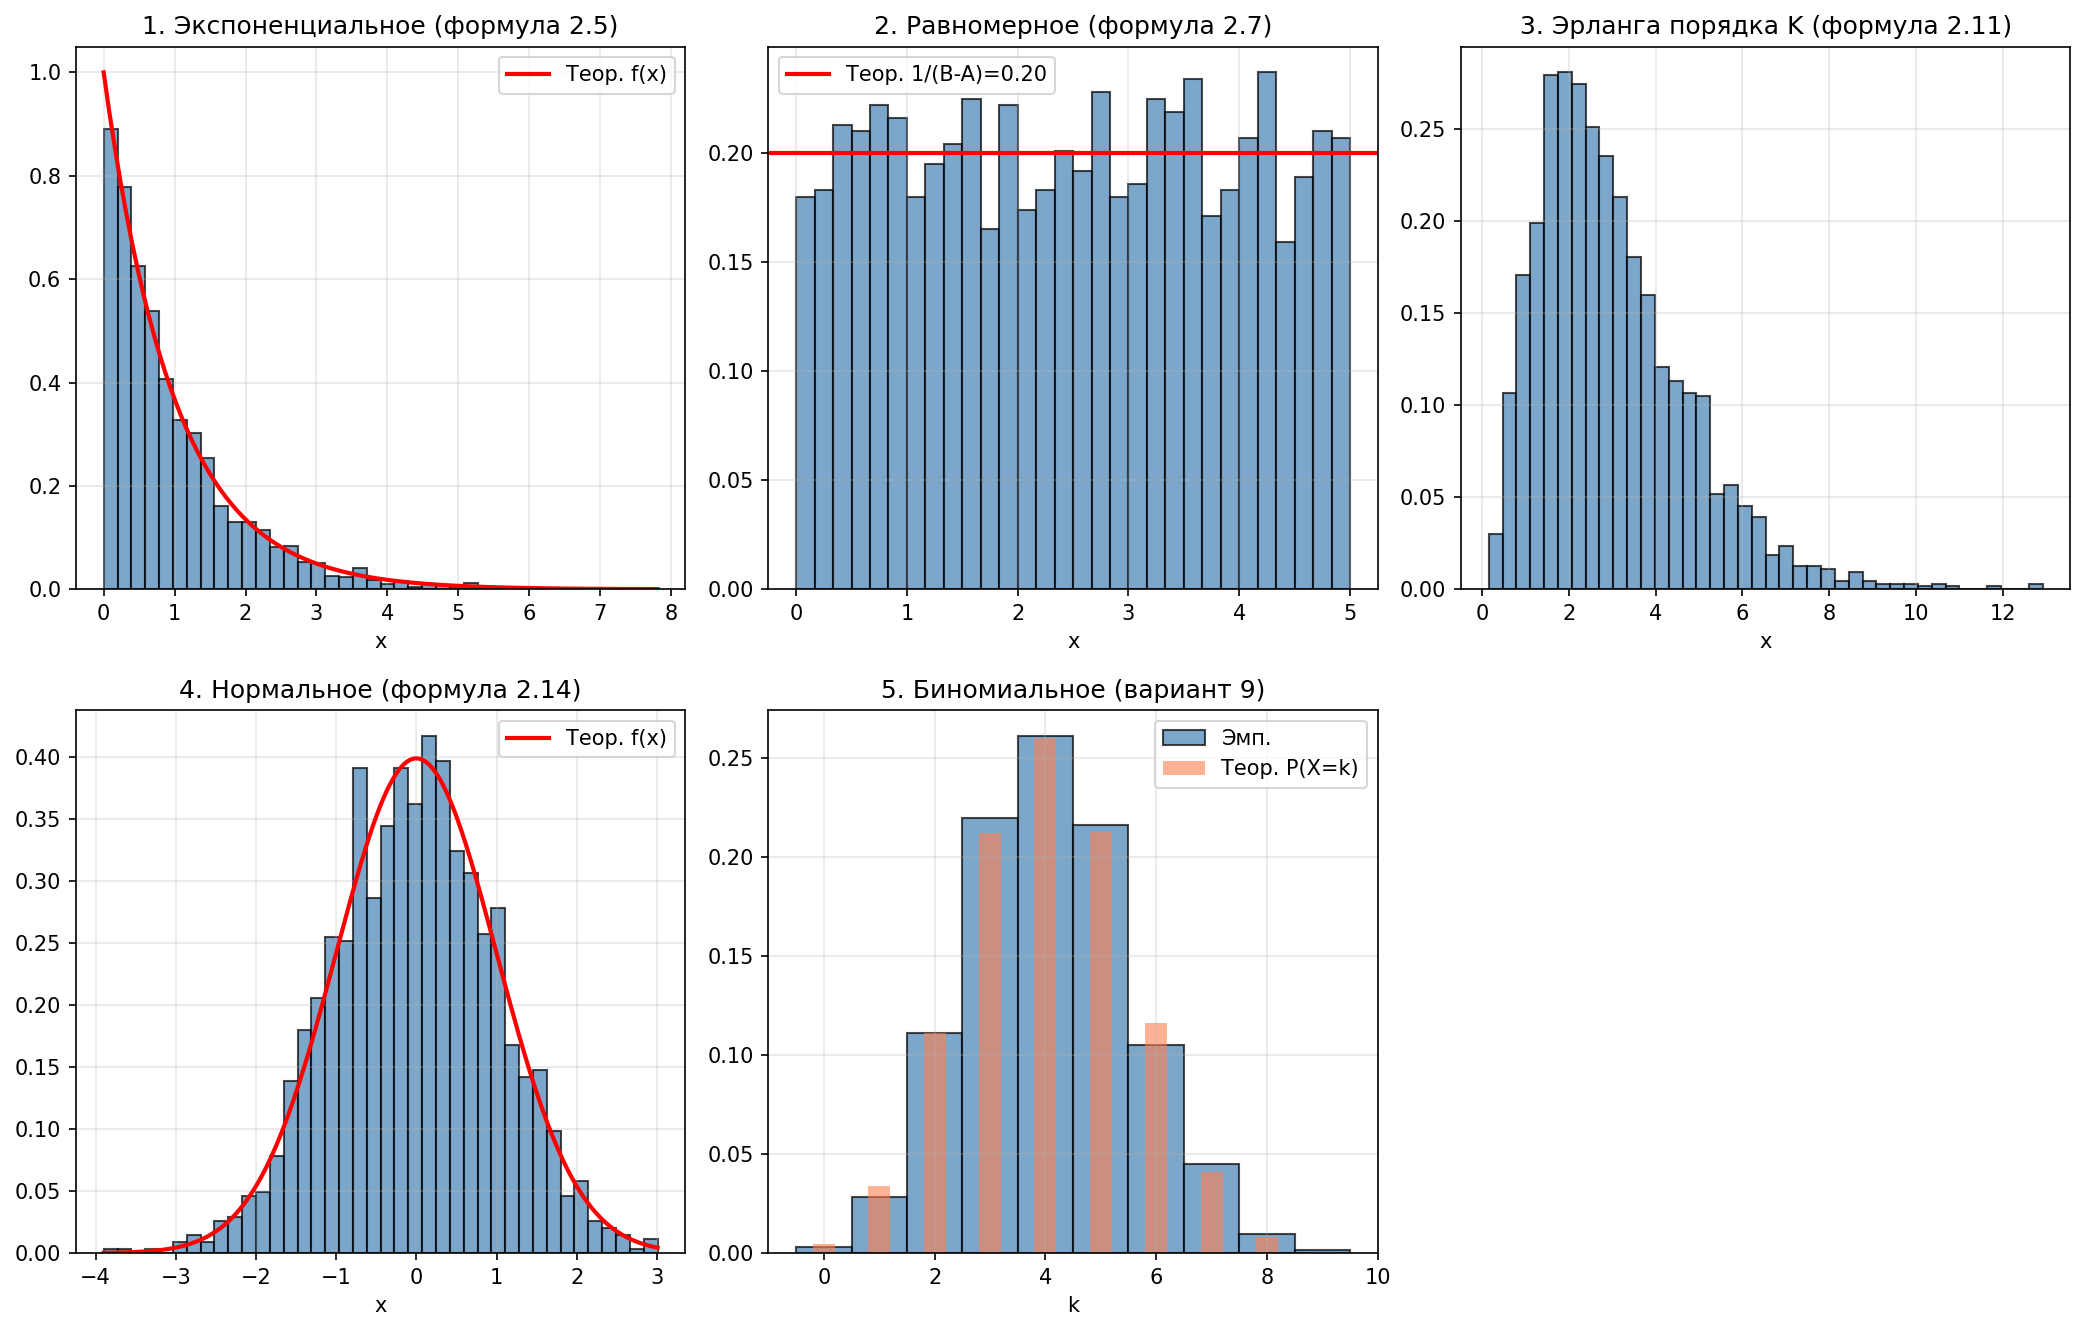
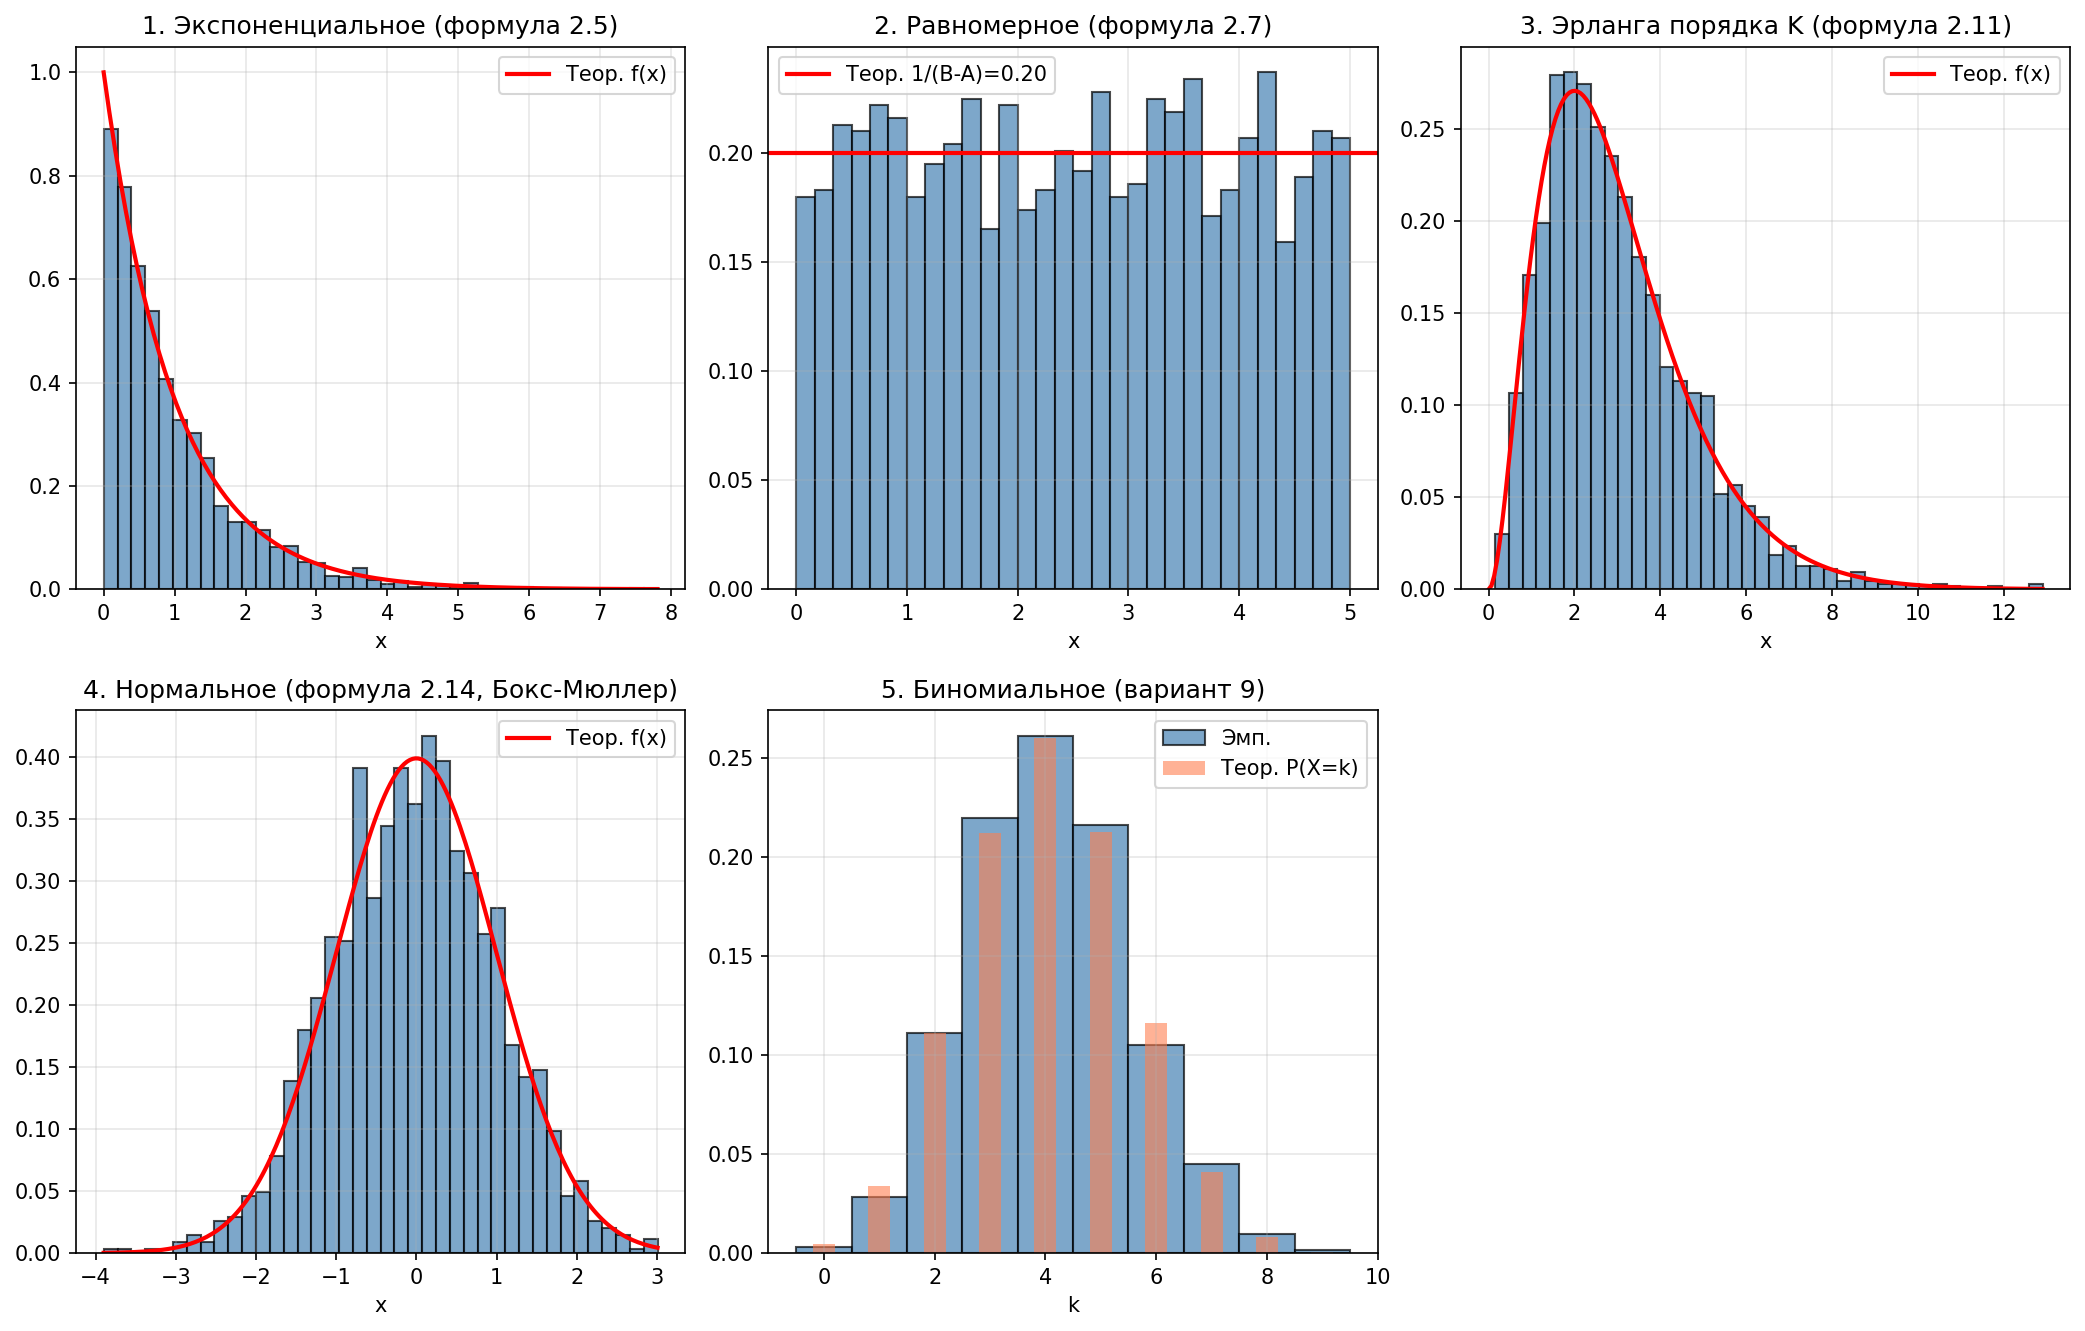
model_obyas_lr3

diff --git a/Моделирование/Лр3/ОБЪЯСНЕНИЕ_ЛАБ3.md b/Моделирование/Лр3/ОБЪЯСНЕНИЕ_ЛАБ3.md
@@ -1,0 +1,209 @@
+# Лабораторная работа №3 — теория (вариант 9)
+
+## Цель
+
+Смоделировать случайные величины (СВ), сгенерировать выборку и сравнить **теоретические** характеристики с **эмпирическими** (полученными из эксперимента).
+
+В варианте 9 основное распределение — **биномиальное**. В полной версии лабы дополнительно моделируются 4 **непрерывных** распределения через базовую случайную величину (БСВ).
+
+---
+
+## Что происходит в лабе
+
+1. Задаются параметры распределения.
+2. По формулам считаются теоретические вероятности, M(X), D(X), σ(X).
+3. Генерируется выборка объёма N (методом моделирования).
+4. По выборке считаются эмпирические оценки: среднее, дисперсия, частоты.
+5. Сравниваются теория и эксперимент, строятся графики.
+
+**Файлы:**
+- `lab3_variant9_binomial.py` — подробно биномиальное Bin(9, 0.45), N = 500
+- `lab3_variant9_full.py` — 5 распределений (4 непрерывных + биномиальное), N = 2000
+
+---
+
+## Базовые понятия
+
+**БСВ (базовая случайная величина)** — Z ~ U(0, 1), равномерное распределение на [0, 1].  
+Генерируется через `random.random()`. Из неё получают другие распределения.
+
+**Ряд распределения** (дискретная СВ): таблица P(X = k).
+
+**Функция распределения:**
+\[
+F(x) = P(X \le x)
+\]
+
+**Числовые характеристики:**
+- M(X) — математическое ожидание (среднее)
+- D(X) — дисpерсия (разброс)
+- σ(X) = √D(X) — среднее квадратическое отклонение
+
+**Эмпирические оценки по выборке x₁, …, x_N:**
+\[
+M^* = \frac{1}{N}\sum_{i=1}^{N} x_i, \qquad
+D^* = \frac{1}{N-1}\sum_{i=1}^{N}(x_i - M^*)^2
+\]
+
+---
+
+## 1. Биномиальное распределение (вариант 9)
+
+**Смысл:** n независимых испытаний, в каждом успех с вероятностью p. X — число успехов.
+
+**Параметры:** n = 9, p = 0.45, q = 1 − p = 0.55
+
+**Обозначение:** X ~ Bin(n, p)
+
+### Формула вероятности
+
+\[
+P(X = k) = C_n^k \cdot p^k \cdot q^{n-k}, \quad k = 0, 1, \ldots, n
+\]
+
+\[
+C_n^k = \frac{n!}{k!(n-k)!}
+\]
+
+### Характеристики
+
+\[
+M(X) = np = 9 \cdot 0.45 = 4.05
+\]
+\[
+D(X) = npq = 9 \cdot 0.45 \cdot 0.55 = 2.2275
+\]
+\[
+\sigma(X) = \sqrt{npq} \approx 1.49
+\]
+
+### Моделирование
+
+**Метод суммирования Бернулли:** n раз генерируем Z ~ U(0,1); если Z < p — успех. X = число успехов.
+
+### Что считалось в коде
+
+- Ряд P(X = k) и F(x) для k = 0, …, 9
+- P(X = 3), P(X ≥ 1), P(X ≤ 4), P(2 ≤ X ≤ 5)
+- Выборка N = 500, сравнение теор. и эмп. вероятностей, M, D, σ
+- Графики: ряд распределения, F(x), характеристики, гистограмма
+
+---
+
+## 2. Экспоненциальное распределение (формула 2.5)
+
+**Параметр:** λ = 1
+
+**Генерация из БСВ:**
+\[
+X = -\frac{\ln Z}{\lambda}
+\]
+
+**Плотность:**
+\[
+f(x) = \lambda e^{-\lambda x}, \quad x \ge 0
+\]
+
+**Характеристики:**
+\[
+M(X) = \frac{1}{\lambda}, \qquad D(X) = \frac{1}{\lambda^2}
+\]
+
+**Смысл:** время между событиями (ожидание, поломки и т.п.).
+
+---
+
+## 3. Равномерное распределение (формула 2.7)
+
+**Параметры:** A = 0, B = 5 → X ~ U[0, 5]
+
+**Генерация:**
+\[
+X = A + Z(B - A)
+\]
+
+**Плотность:**
+\[
+f(x) = \frac{1}{B - A}, \quad x \in [A, B]
+\]
+
+**Характеристики:**
+\[
+M(X) = \frac{A + B}{2}, \qquad D(X) = \frac{(B - A)^2}{12}
+\]
+
+---
+
+## 4. Распределение Эрланга порядка K (формула 2.11)
+
+**Параметры:** K = 3, λ = 1
+
+**Генерация:**
+\[
+X = -\frac{1}{\lambda} \ln(Z_1 \cdot Z_2 \cdot \ldots \cdot Z_K)
+\]
+
+**Характеристики:**
+\[
+M(X) = \frac{K}{\lambda}, \qquad D(X) = \frac{K}{\lambda^2}
+\]
+
+**Смысл:** сумма K экспоненциальных СВ; время до K-го события. При K = 1 совпадает с экспоненциальным.
+
+---
+
+## 5. Нормальное распределение (формула 2.14, Бокс — Мюллер)
+
+**Параметры:** m = 0, σ = 1 → N(0, 1)
+
+**Генерация (из двух БСV Z₁, Z₂):**
+\[
+X = m + \sigma \sqrt{-2\ln Z_1} \cdot \sin(2\pi Z_2)
+\]
+
+**Плотность:**
+\[
+f(x) = \frac{1}{\sigma\sqrt{2\pi}} \exp\left(-\frac{(x-m)^2}{2\sigma^2}\right)
+\]
+
+**Характеристики:**
+\[
+M(X) = m, \qquad D(X) = \sigma^2
+\]
+
+---
+
+## Сводка: что делалось в полной версии
+
+| Распределение | Параметры | M (теор.) | D (теор.) |
+|---------------|-----------|-----------|-----------|
+| Экспоненциальное | λ = 1 | 1 | 1 |
+| Равномерное | [0, 5] | 2.5 | 2.083 |
+| Эрланга | K = 3, λ = 1 | 3 | 3 |
+| Нормальное | m = 0, σ = 1 | 0 | 1 |
+| Биномиальное | n = 9, p = 0.45 | 4.05 | 2.228 |
+
+Для каждого: генерация выборки N = 2000 → сравнение M и D (теор. vs эмп.) → гистограмма с теоретической кривой/столбцами.
+
+---
+
+## Главная идея
+
+Все непрерывные распределения получаются **преобразованием БСV** Z ~ U(0,1).  
+Биномиальное — **дискретное**: сумма n испытаний Бернулли.
+
+При большом N эмпирические значения приближаются к теоретическим (закон больших чисел). Небольшие расхождения при N = 500–2000 — нормальны.
+
+---
+
+## Краткая шпаргалка формул
+
+**Биномиальное:** P(X=k) = C(n,k)p^k q^(n−k), M = np, D = npq
+
+**Экспоненциальное:** X = −ln(Z)/λ, M = 1/λ, D = 1/λ²
+
+**Равномерное:** X = A + Z(B−A), M = (A+B)/2, D = (B−A)²/12
+
+**Эрланга:** X = −ln(∏Zᵢ)/λ, M = K/λ, D = K/λ²
+
+**Нормальное:** Бокс — Мюллер, M = m, D = σ²
